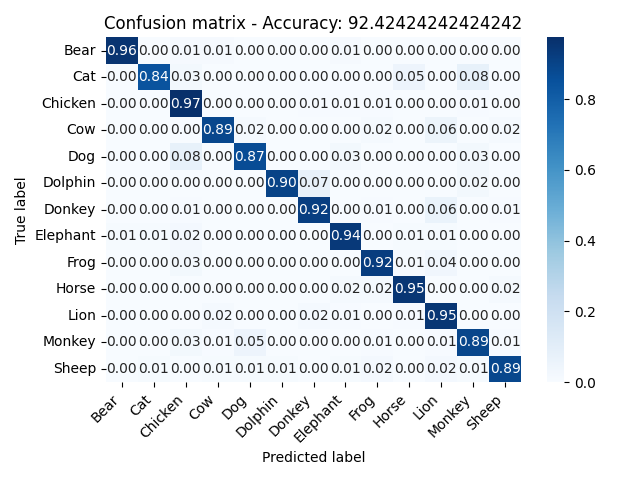
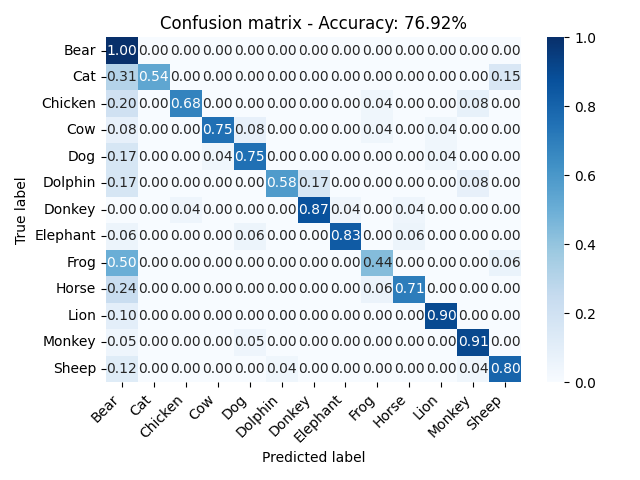
Add updated results

diff --git a/Main.py b/Main.py
@@ -24,17 +24,16 @@ from sklearn.model_selection import KFold
 
 # load data
 device = torch.device("cuda" if torch.cuda.is_available() else "cpu")
-df = pd.read_csv('data/Animal_Sound_modified.csv')
+df = pd.read_csv('data/Animal_Sound_processed.csv')
 
 # load best hyperparameters
-with open("configs/audio_model_modified_data_best.json", "r") as f:
+with open("configs/audio_model_processed_data_best.json", "r") as f:
     hyperparameters = json.load(f)
 
 
 # Prepare 5-Fold cross-validator
 kf = KFold(n_splits=5, shuffle=True, random_state=42)
 accuracy_list = []
-val_loader_list = []
 train_accuracy_per_epoch_list = []
 val_accuracy_per_epoch_list = []
 
@@ -42,13 +41,14 @@ val_accuracy_per_epoch_list = []
 best_accuracy = 0
 best_model_path = ""
 best_model_index = 0
+best_test_index = 0
 results = []  # to store fold results
 
 
-for fold, (train_val_idx, val_idx) in enumerate(kf.split(df)):
+for fold, (train_val_idx, test_idx) in enumerate(kf.split(df)):
     # split the dataset
     df_train_val = df.iloc[train_val_idx].reset_index(drop=True)
-    df_test = df.iloc[val_idx].reset_index(drop=True)
+    df_test = df.iloc[test_idx].reset_index(drop=True)
 
     print(f"Fold {fold + 1}")
     print(f"Train/Val samples: {len(df_train_val)}")
@@ -59,19 +59,17 @@ for fold, (train_val_idx, val_idx) in enumerate(kf.split(df)):
     dataset_val = AnimalSoundDataset(df_train_val, split='val', split_ratio=0.75, seed=42)
     train_loader = DataLoader(dataset_train, batch_size=hyperparameters['batch_size'], shuffle=True)
     val_loader = DataLoader(dataset_val, batch_size=hyperparameters['batch_size'], shuffle=False)
-    # save it for confusion matrix
-    val_loader_list.append(val_loader) 
 
     # Initialize model and trainer
     model = AudioModel(hyperparameters).to(device)
     trainer_final = AudioTrainer(model, train_loader, val_loader, hyperparameters, device=device)
     train_acc_list, val_acc_list = trainer_final.train()
-    # save it for confusion matrix
+    # save it for graphs
     train_accuracy_per_epoch_list.append(train_acc_list)
     val_accuracy_per_epoch_list.append(val_acc_list)
 
     # Save the model for this fold
-    model_save_path = f'models/model_modified_fold_{fold + 1}.pth'
+    model_save_path = f'models/model_processed_fold_{fold + 1}.pth'
     torch.save(model.state_dict(), model_save_path)
     print(f"Model saved to {model_save_path}\n")
 
@@ -97,6 +95,7 @@ for fold, (train_val_idx, val_idx) in enumerate(kf.split(df)):
         best_accuracy = accuracy
         best_model_path = model_save_path
         best_model_index = fold
+        best_test_index = test_idx
         
     # Save results for CSV
     results.append({
@@ -109,48 +108,44 @@ for fold, (train_val_idx, val_idx) in enumerate(kf.split(df)):
 
 # Save results to CSV
 results_df = pd.DataFrame(results)
-results_df.to_csv("results/kfold_modified_results.csv", index=False)
-print("Saved k-fold results to results/kfold_modified_results.csv")
+results_df.to_csv("results/kfold_processed_results.csv", index=False)
+print("Saved k-fold results to results/kfold_processed_results.csv")
 
 # Save best model info
 print(f"Best model: {best_model_path} with accuracy: {best_accuracy:.2f}%")
 
-best_model_target = "models/best_modified_model.pth"
+best_model_target = "models/best_processed_model.pth"
 if os.path.exists(best_model_path):
     import shutil
     shutil.copy(best_model_path, best_model_target)
     print(f"Best model copied to {best_model_target}")
 
-
-# save the confusion matrix and graphs
-max_val_loader = val_loader_list[best_model_index]
+# prepare data for plots
 max_train_acc_list = train_accuracy_per_epoch_list[best_model_index]
 max_val_acc_list = val_accuracy_per_epoch_list[best_model_index]
 print("max_train_acc_list", max_train_acc_list)
 print("max_val_acc_list", max_val_acc_list)
 
-x_list = []
-y_list = []
-for x_batch, y_batch in max_val_loader:
-    x_list.append(x_batch)
-    y_list.append(y_batch)
+# Reload best test data
+df_test = df.iloc[best_test_index].reset_index(drop=True)
 
-x_all = torch.cat(x_list).to(device)
-y_all = torch.cat(y_list).to(device)
+# Initialize a fresh model and load weights
+best_model = AudioModel(hyperparameters).to(device)
+best_model.load_state_dict(torch.load(best_model_path))
+best_model.eval()
 
-# === Run model and evaluate ===
-with torch.no_grad():
-    y_hat = model(x_all)
+y_true = []
+y_pred = []
 
-y_true = y_all.cpu().numpy()
-y_pred_logits = y_hat.cpu().numpy()
-
-print(dataset_val.class_to_idx)
+for path, label in zip(df_test['path'], df_test['name']):
+    segments = Utilities.extract_segments_with_deltas(path, variant='short')
+    prediction = Utilities.predict_clip(best_model, torch.tensor(segments, dtype=torch.float32).to(device), device, method='prob')
+    
+    y_true.append(dataset_train.class_to_idx[label])
+    y_pred.append(prediction)
 
 # === Plots ===
-Utilities.plot_confusion_matrix_animals(y_true, y_pred_logits, dataset_val.class_to_idx)
-Utilities.plot_graphs(max_train_acc_list, max_val_acc_list)
+Utilities.plot_confusion_matrix_animals(np.array(y_true), np.array(y_pred), dataset_train.class_to_idx, fig_path = "results/confusion_matrix_processed_best.png")
+Utilities.plot_graphs(max_train_acc_list, max_val_acc_list, fig_path = "results/graphs_processed.png") 
 
-print("Done")
-
-   
+print("Done!")

diff --git a/Utilities/Utilities.py b/Utilities/Utilities.py
@@ -156,34 +156,31 @@ class Utilities:
         return clip_pred
 
     @staticmethod
-    def plot_confusion_matrix_animals(y, y_hat, label_to_index):
-        accuracy = Utilities.compute_accuracy(y, y_hat)
+    def plot_confusion_matrix_animals(y_true, y_pred, label_to_index, fig_path = "results/confusion_matrix_modified_best.png"):
+        # y_pred is already class indices, so compute accuracy directly
+        accuracy = np.mean(np.array(y_true) == np.array(y_pred)) * 100
 
-        y_hat = np.argmax(y_hat, 1)
-
-        cm = confusion_matrix(y, y_hat)
+        cm = confusion_matrix(y_true, y_pred)
         cm_normalized = cm.astype("float") / cm.sum(axis=1)[:, np.newaxis]
         
         index_to_label = {v: k.capitalize() for k, v in label_to_index.items()}
         labels = [index_to_label[i] for i in sorted(index_to_label)]
         
         plt.figure()
-        plt.subplot(1, 1, 1)
         sns.heatmap(cm_normalized, annot=True, fmt=".2f", cmap="Blues",
                     xticklabels=labels, yticklabels=labels)
         plt.xlabel("Predicted label")
         plt.ylabel("True label")
-        plt.title("Confusion matrix - Accuracy: " + str(accuracy))
+        plt.title("Confusion matrix - Accuracy: {:.2f}%".format(accuracy))
         plt.xticks(rotation=45, ha='right')
         plt.yticks(rotation=0)
         plt.tight_layout()
-        plt.savefig("results/confusion_matrix_modified_best.png")
+        plt.savefig(fig_path)
         plt.close()
-        print("Saved the confusion matrix to results/confusion_matrix_modified_best.png")
-        return 
+        print(f"Saved the confusion matrix to f{fig_path}")
     
     @staticmethod
-    def plot_graphs(max_train_acc_list, max_val_acc_list):
+    def plot_graphs(max_train_acc_list, max_val_acc_list, fig_path = "results/graphs_modified.png"):
         plt.figure()
         plt.plot(max_train_acc_list, 'b', label='Train accuracy')
         plt.plot(max_val_acc_list, 'r', label='Valid accuracy')
@@ -191,9 +188,9 @@ class Utilities:
         plt.xlabel('Epochs')
         plt.ylabel('Accuracy')  
         plt.legend()
-        plt.savefig("results/graphs_modified.png")
+        plt.savefig(fig_path)
         plt.close()
-        print("Saved the graphs to results/graphs_modified.png")
+        print(f"Saved the graphs to {fig_path}")
         return 
 
 
